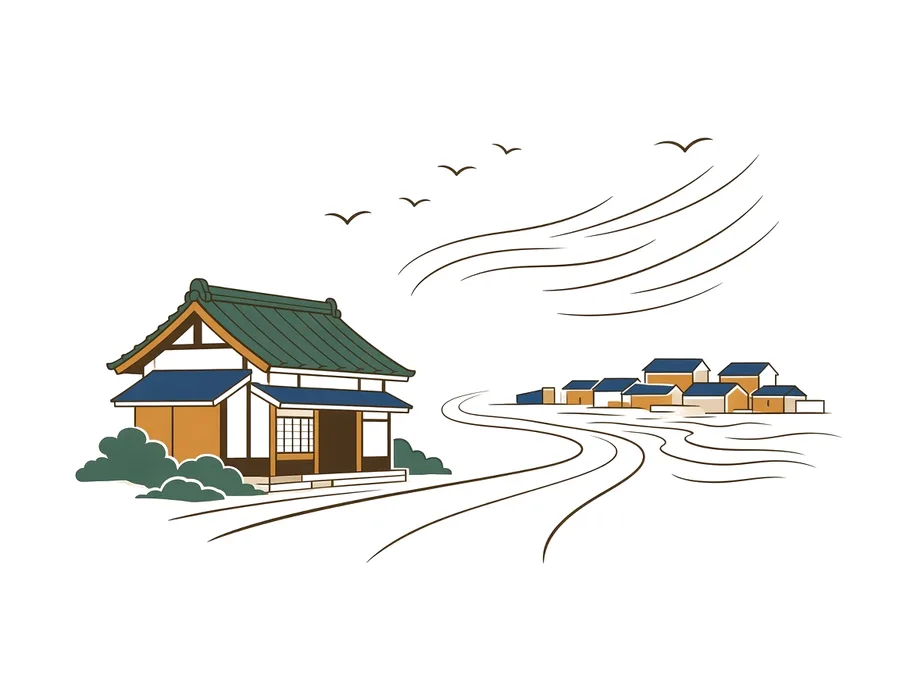
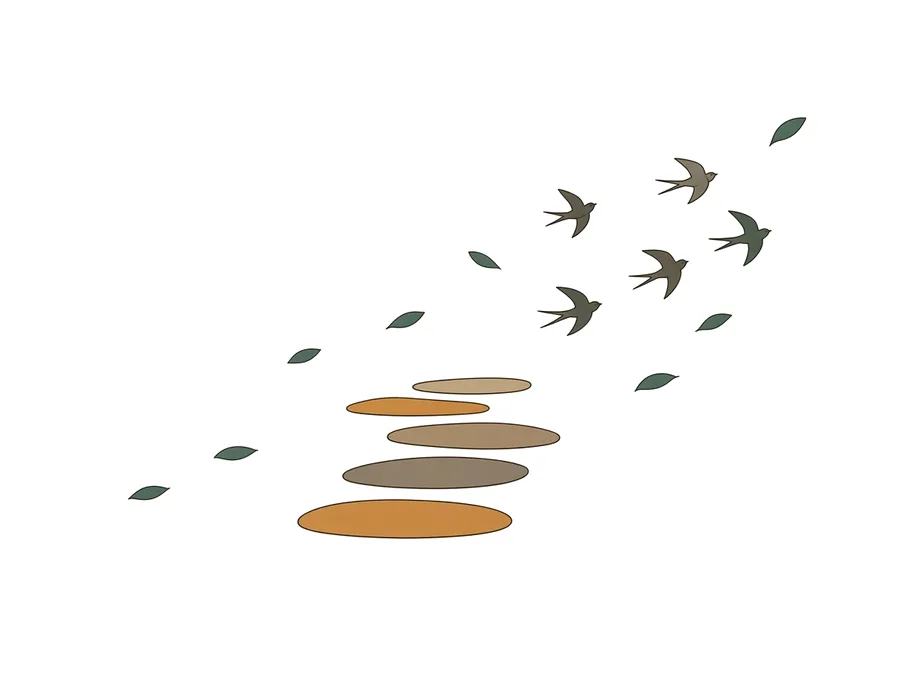
背景を無地に・大きく動く年の絵を変更・目次を丸いタブに

diff --git a/assets/style.css b/assets/style.css
@@ -1,4 +1,4 @@
-/* 配色・構成は神戸女学院大学「blooming」を参考：パステルの花の背景＋中央の白い列＋濃紺の強調。
+/* 配色・構成は神戸女学院大学「blooming」を参考：無地の青灰の背景＋中央の白い列＋濃紺の強調。
    色は五行（木・火・土・金・水）に1色ずつ割り当て、.el-* の --c（文字・線）と --t（色面）で使う。
    見出しは明朝（秀英明朝の代わりに Shippori Mincho）、本文は角ゴシック（Zen Kaku Gothic New） */
 :root {
@@ -28,7 +28,7 @@ html { -webkit-text-size-adjust: 100%; scroll-behavior: smooth; -webkit-font-smo
 
 body {
   margin: 0;
-  background: #ced4e0 url(img/bg_flowers.webp) center / cover no-repeat fixed;
+  background: #ced4e0;
   color: var(--text);
   font-family: var(--sans);
   font-size: 16px;
@@ -55,9 +55,8 @@ button { cursor: pointer; }
 
 /* ---------- 入口 ---------- */
 .entry { padding: 0 24px 60px; }
-.entry-head { margin: 0 -24px; padding: 28px 16px 32px; background: #fff url(img/bg_flowers.webp) center / cover no-repeat fixed; }
-.entry-head { padding: 48px 0 0; }
-@media (max-width: 719px) { .entry-head { padding-top: 72px; background-position: 12% center; } }
+.entry-head { margin: 0 -24px; padding: 48px 0 0; background: #ced4e0; }
+@media (max-width: 719px) { .entry-head { padding-top: 24px; } }
 .hero-card { padding: 34px 24px 8px; background: #fff; border-radius: 24px 24px 0 0; }
 .hero-card .lead { color: var(--text) !important; }
 .brand { font-family: var(--serif); font-weight: 600; font-size: 19px; letter-spacing: .24em; color: var(--navy); }
@@ -153,15 +152,16 @@ input:focus, select:focus { outline: 2px solid var(--navy); outline-offset: 1px;
 .result { padding-bottom: 112px; }
 .toc {
   position: sticky; top: 0; z-index: 10;
-  display: flex; gap: 2px; overflow-x: auto; scrollbar-width: none;
-  padding: 8px 12px; background: var(--bg); border-bottom: 1px solid var(--rule);
+  display: flex; gap: 6px; overflow-x: auto; scrollbar-width: none;
+  padding: 10px 16px; background: var(--bg); border-bottom: 1px solid var(--rule);
 }
 .toc::-webkit-scrollbar { display: none; }
+.toc::after { content: ''; flex: none; width: 4px; }
 .toc a {
-  flex: none; padding: 6px 10px;
-  color: var(--sub); font-size: 14px; font-weight: 500; text-decoration: none;
+  flex: none; padding: 6px 14px; border-radius: 999px; background: var(--paper);
+  color: var(--text); font-size: 14px; font-weight: 500; line-height: 1.6; text-decoration: none;
 }
-.toc a.on { color: var(--navy); font-weight: 700; }
+.toc a.on { background: var(--navy); color: #fff; font-weight: 700; }
 
 /* ---------- 表紙 ---------- */
 img.cover-art, .gods-grid img, .pair img, img.photo { mix-blend-mode: multiply; }

diff --git a/assets/firebase-config.js b/assets/firebase-config.js
@@ -1,0 +1,3 @@
+/* Firebase のウェブアプリ設定（コンソールの「プロジェクトの設定 → マイアプリ」の firebaseConfig をそのまま貼る）。
+   null のあいだはログインボタンが「準備中」のまま動く。手順は firebase/README.md */
+window.HIYOMI_FIREBASE = null;
